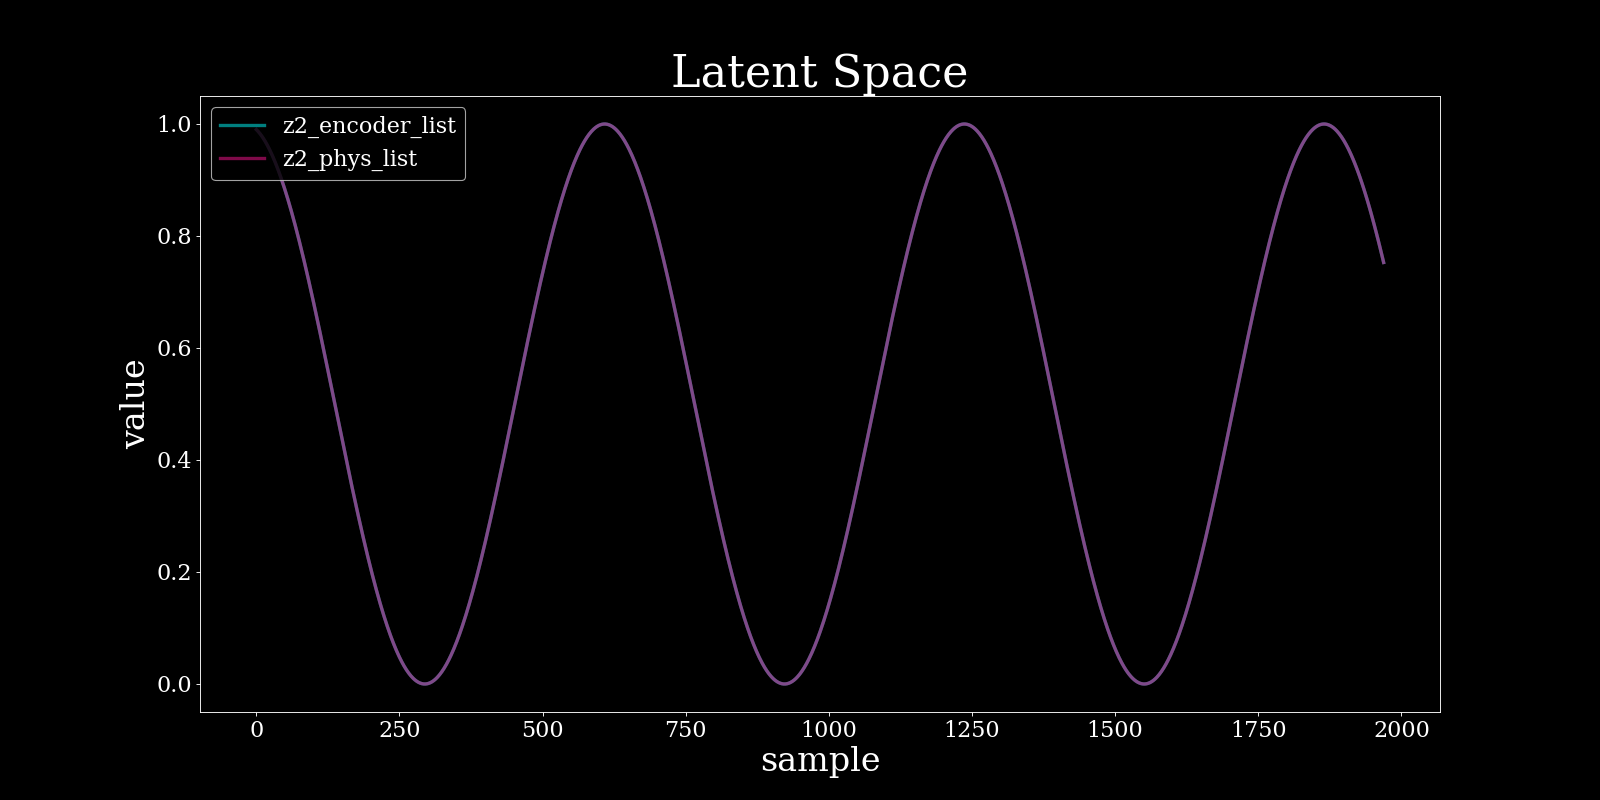
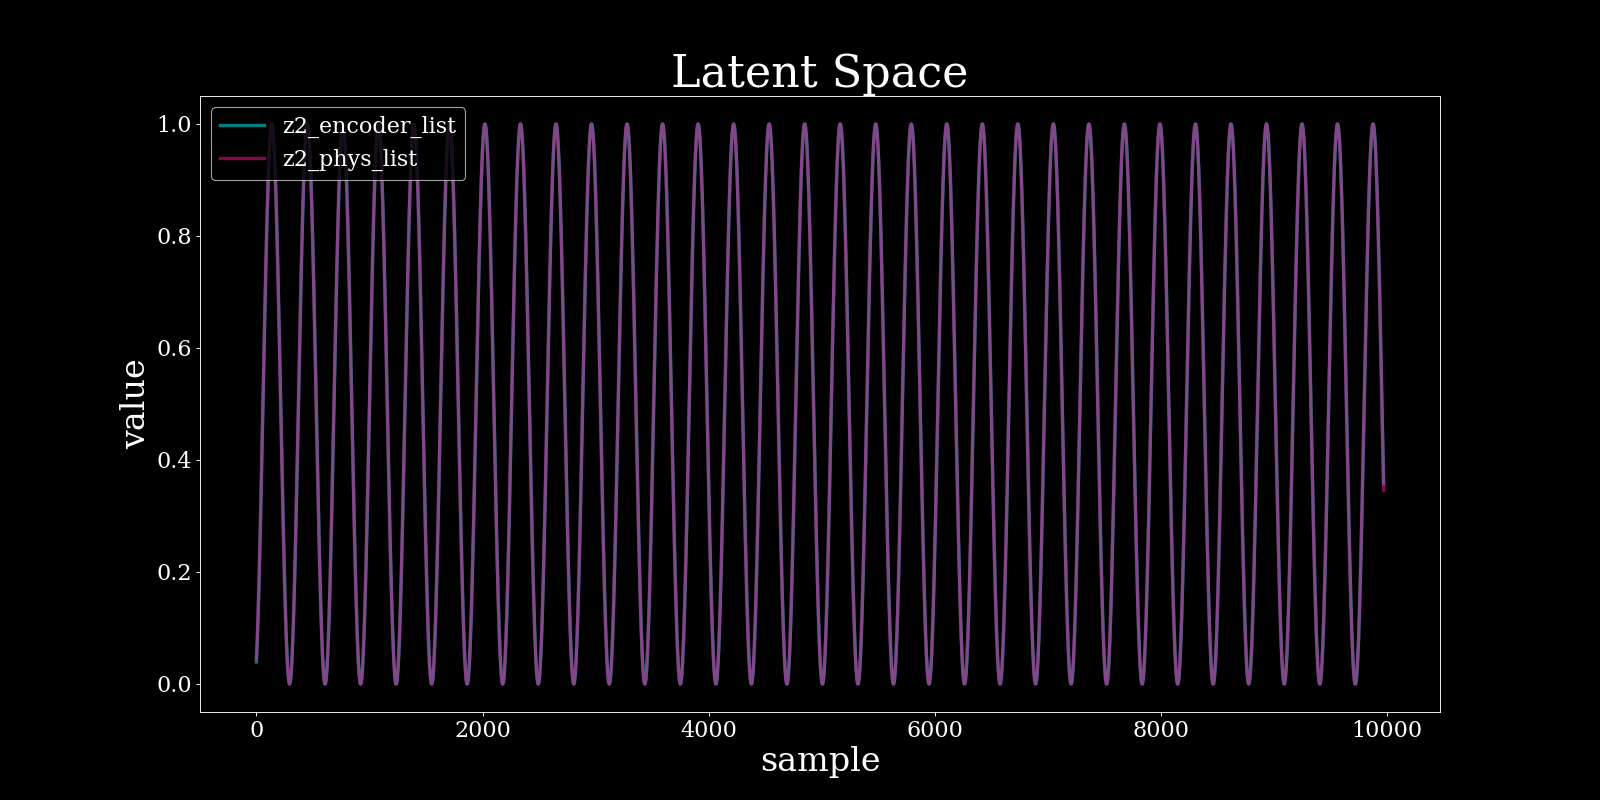
experiments convengerce ??

diff --git a/src/models/model.py b/src/models/model.py
@@ -90,14 +90,14 @@ class pModel(nn.Module):
       y1 = z[:,1:2]
       y0 = z[:,0:1]
 
-      dt = dt/5
+      dt = dt
 
-      for i in range(5):
+      #for i in range(5):
 
-        y_hat = y1+ (y1-y0) -dt*dt *self.alpha* y1
+      y_hat = y1+ (y1-y0) -dt*dt *self.alpha* y1
 
-        y0 = y1
-        y1 = y_hat
+        #y0 = y1
+        #y1 = y_hat
 
 
       #return x1+(x1-x0)+self.alpha*(x1-x0 )*dt*2 + (self.beta*x1 )*dt*dt*4

diff --git a/src/train.py b/src/train.py
@@ -129,7 +129,7 @@ def train(model, train_loader, val_loader, name, type ='normal', loss_name=None)
     #optimizer = torch.optim.Adam(model.parameters(), lr=0.001)
     optimizer = torch.optim.Adam([
                 {'params': model.encoder.parameters()},
-                {'params': model.pModel.parameters(), 'lr': 10}
+                {'params': model.pModel.parameters(), 'lr': 1}
             ], lr=1e-2)
 
 
